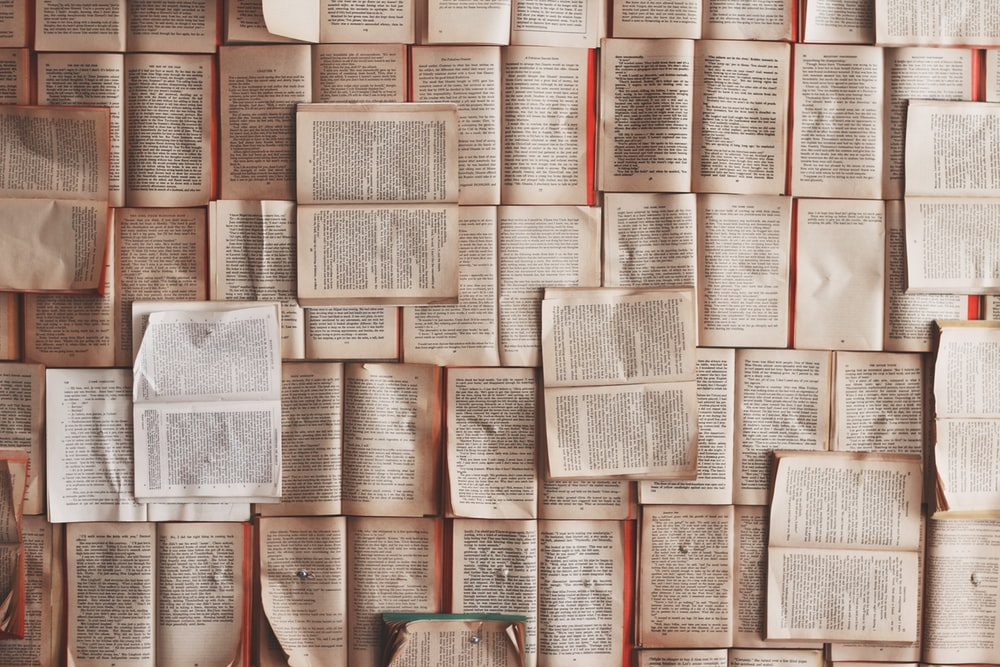
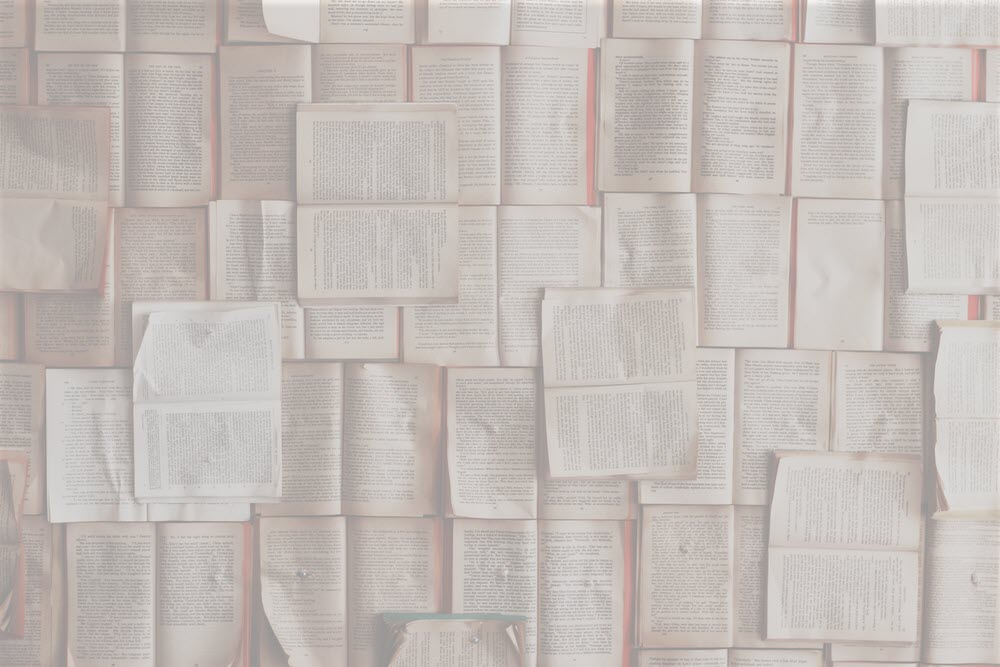
added a background image to the jumbotron

diff --git a/client/src/components/Jumbotron/index.js b/client/src/components/Jumbotron/index.js
@@ -1,16 +1,18 @@
 import React from "react";
 import { BrowserRouter as Router, Link } from "react-router-dom";
-import background from "../../assets/images/pages.jpg"
+import image from "../../assets/images/pages.jpg"
 
 const buttons = {
   margin: "1rem",
 }
 
+
 const backgroundImage = {
-  background: "#F2F2FF",
+  backgroundImage: `url(${image})`,
   height: "300", 
   clear: "both", paddingTop: "120",
-  textAlign: "center"
+  textAlign: "center",
+  borderRadius: 0
 }
 
 
